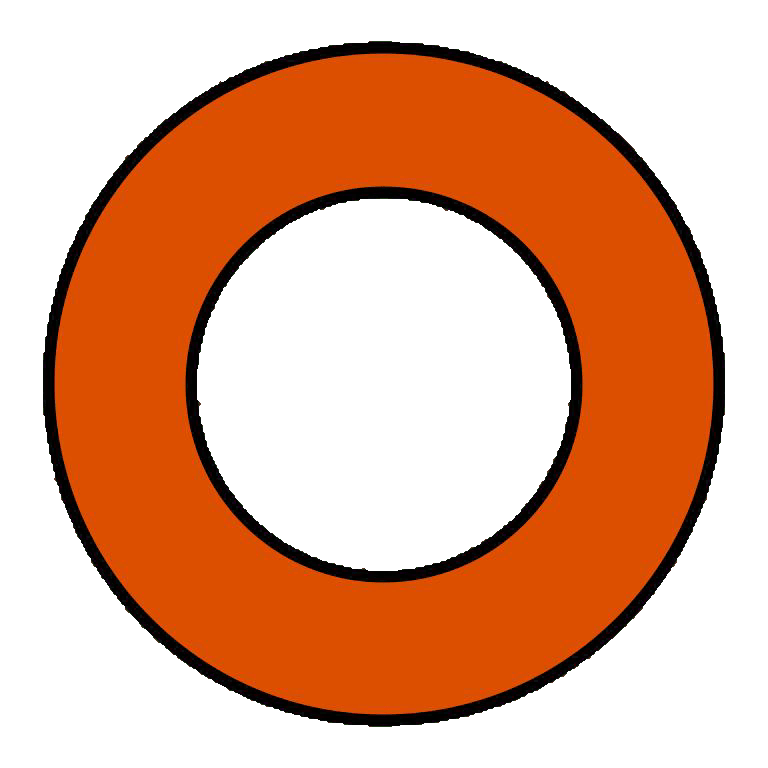
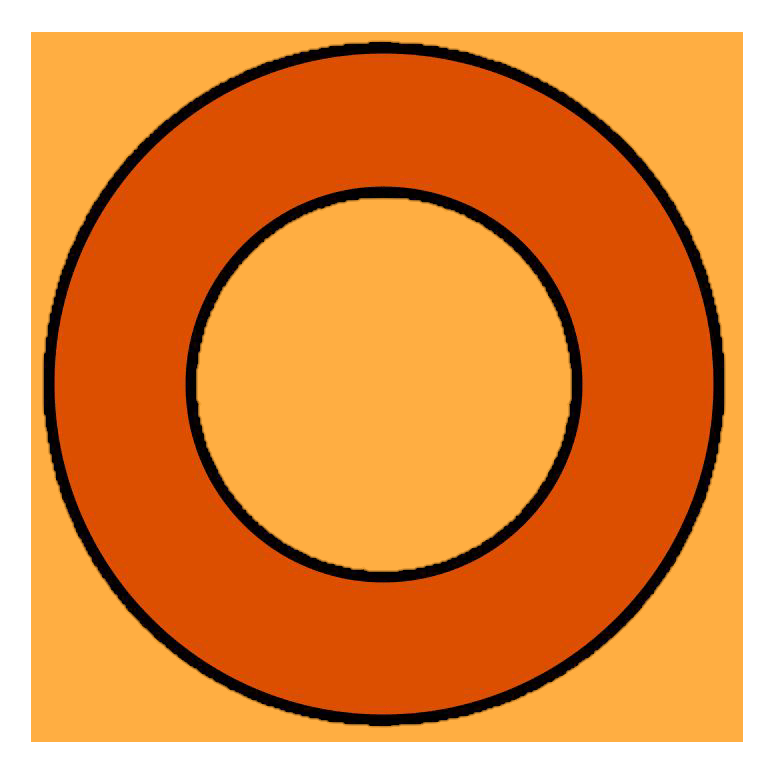
Add new PNGs

diff --git a/client/examples/pygame/tictactoe_pygame.py b/client/examples/pygame/tictactoe_pygame.py
@@ -17,6 +17,8 @@ Author: Michael Maranan
 https://thepythoncode.com/article/make-a-tic-tac-toe-game-pygame-in-python
 Accessed: 2024-12-12
 
+The two PNG files were downloaded from the same website.
+
 
 MIT License
 
@@ -123,7 +125,7 @@ class TicTacToe():
                 msg = f'You ({self.marks[self.my_id]}) lose...' # feb
             msg = self.font.render(msg, True, self.instructions_color,self.background_color)
             screen.blit(msg,(75,445))
-            self.strike() # feb
+            self._strike()
         else:
             screen.fill(self.background_color, (135, 445, 188, 35))
 
@@ -134,7 +136,7 @@ class TicTacToe():
             instructions = self.font.render(instr, True, self.instructions_color,self.background_color)
             screen.blit(instructions,(75,445))
 
-    def strike(self):
+    def _strike(self):
         if self.state['gameover'] and self.state['winner'] is not None: # feb
             b = self.state['board'] # feb
             if b[0] == b[1] == b[2] and b[2] != -1:
@@ -182,9 +184,9 @@ class TicTacToe():
         # draws the line strike
         line_strike = pygame.draw.line(screen, self.line_color, [start_x, start_y], [end_x, end_y], 16)
 
-    def draw_marks(self):
-        for y in range(3): # feb
-            for x in range(3): # feb
+    def _draw_marks(self):
+        for y in range(3):
+            for x in range(3):
                 player = self.state['board'][y * 3 + x] # feb
                 if player in (0, 1): # feb
                     self._draw_char(x,y,player)
@@ -209,7 +211,7 @@ class TicTacToe():
         threading.Thread(target=self._request_state, args=(), daemon=True).start() # feb
 
         while running:
-            self.draw_marks()
+            self._draw_marks()
             self._message()
 
             for self.event in pygame.event.get():
